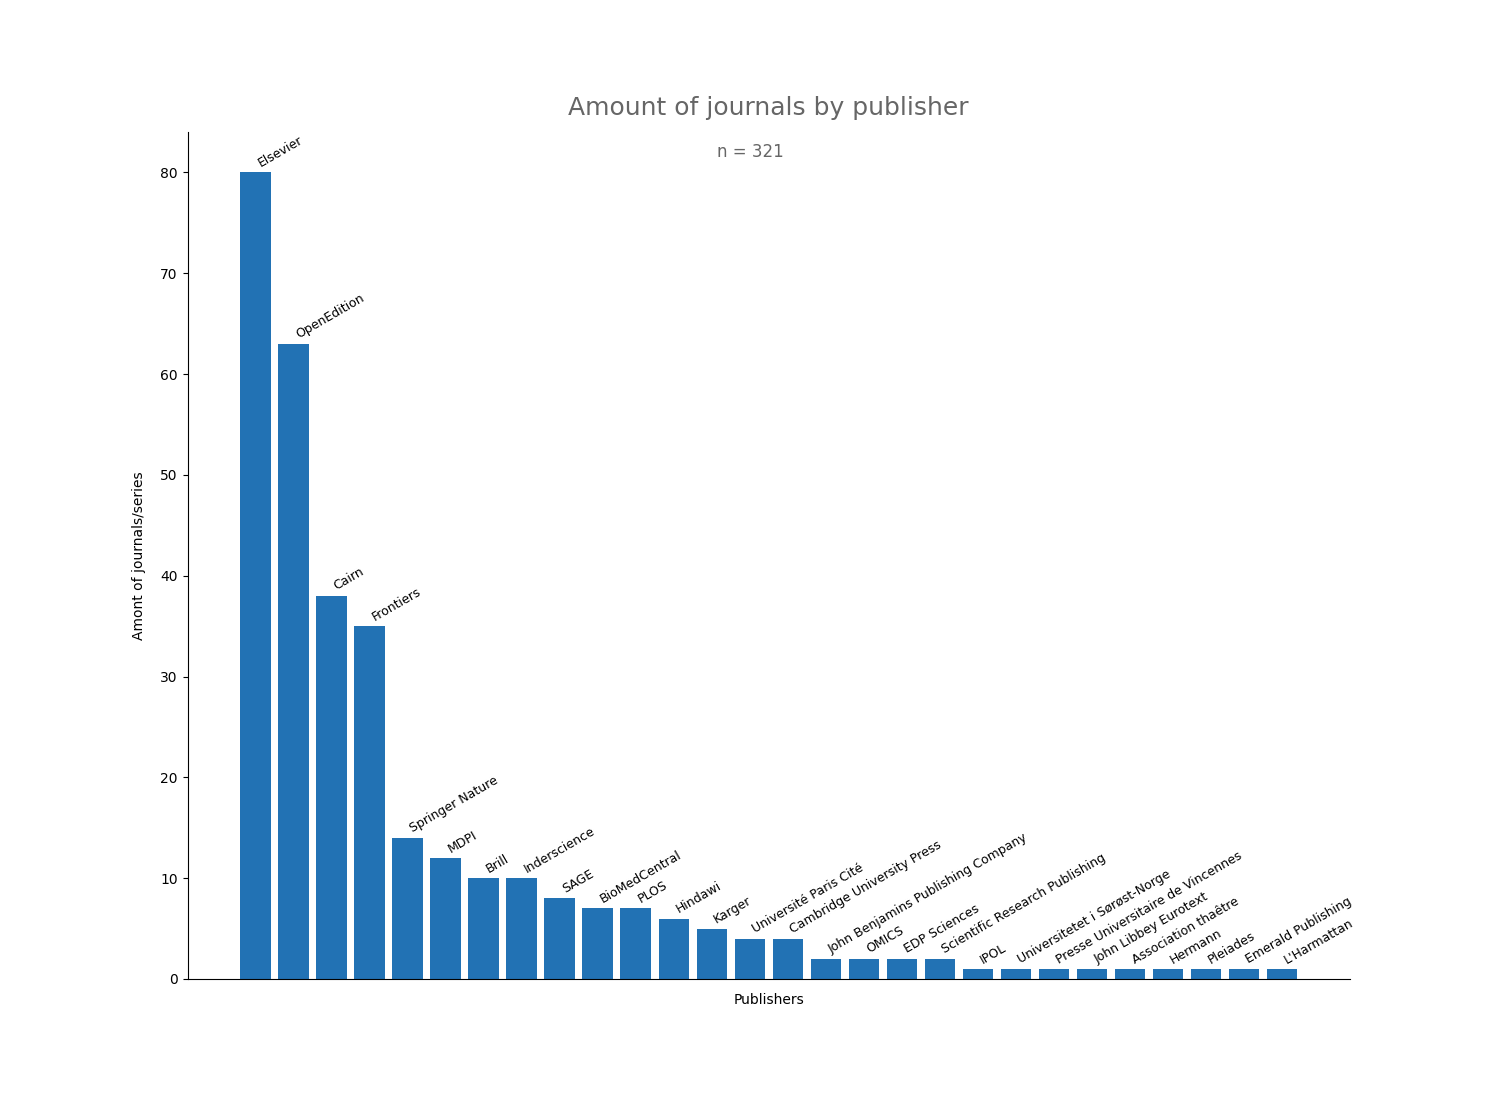
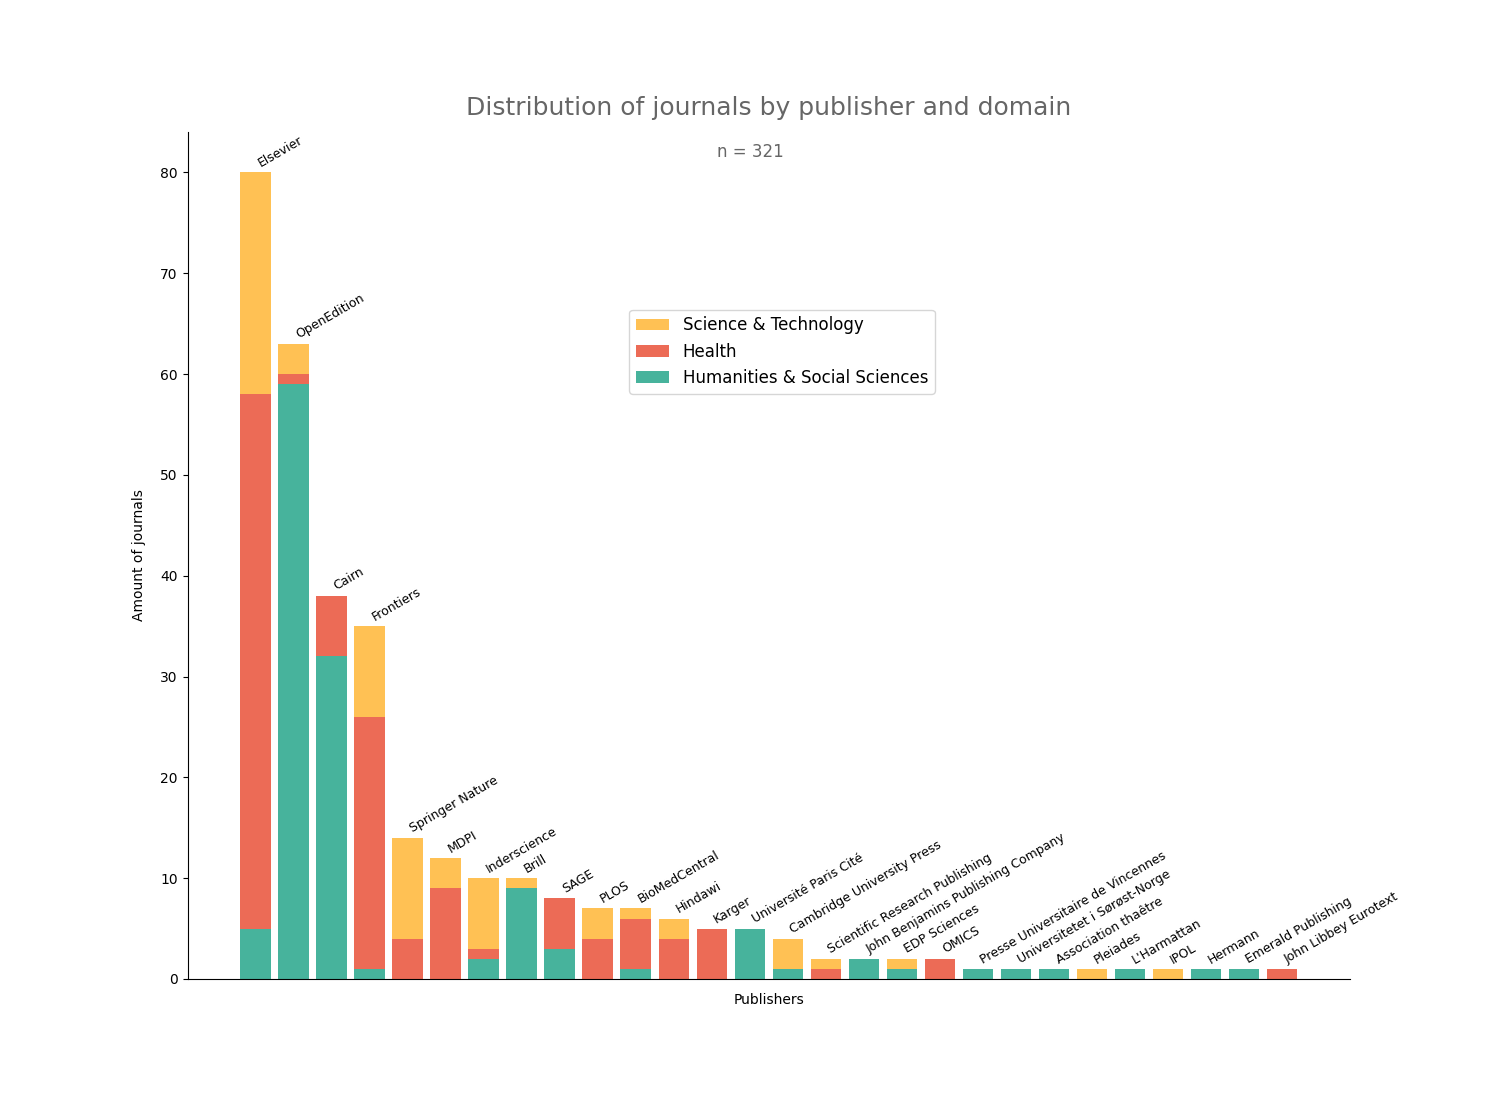
update hist publisher graph

diff --git a/produce-img/b__draw_publisher.py b/produce-img/b__draw_publisher.py
@@ -3,7 +3,7 @@ import my_functions
 
 
 df = my_functions.load_corpus()
-# print("columns", df.columns)
+print("columns", df.columns)
 
 # ______0______ preparer les données
 
@@ -16,18 +16,32 @@ df.loc[:, "pub_2"]= df["pub_2"].str.strip()
 # print(df["pub_1"].value_counts())
 # print(len(df["pub_1"].value_counts()))
 
-# calcul nb de revues par publisher
-df_publisher = df["pub_1"].value_counts().rename_axis('publishers').reset_index(name='counts')
+
+df_publisher = pd.crosstab(df["pub_1"], df["main_subject"])
+# rename the index
+df_publisher.index.rename("publisher", inplace = True)
+
+# une colonne pour avoir le total des revues par publisher
+df_publisher["sum"] = df_publisher["HSS"] + df_publisher["Health"] + df_publisher["ST"]
+
+df_publisher.sort_values("sum", ascending = False, inplace = True)
+print(df_publisher)
 
 
 ## ______0______ produire graphique
 fig, (ax) = plt.subplots(figsize=(15, 11), dpi = 100, facecolor='w', edgecolor='k')
 
-ax.bar(df_publisher.publishers, df_publisher.counts, color = "#2272b4")
+ax.bar(df_publisher.index, df_publisher.HSS, label = "Humanities & Social Sciences", color = "#47B39C")
+
+ax.bar(df_publisher.index, df_publisher.Health , align='center', alpha = 1.0, color='#EC6B56', 
+    bottom = df_publisher.HSS, ecolor='black', label="Health")
+
+ax.bar(df_publisher.index, df_publisher.ST , align='center', alpha = 1.0, color='#FFC154', 
+    bottom = [sum(x) for x in zip(df_publisher.HSS, df_publisher.Health)], ecolor='black', label="Science & Technology")
 
 
 # ajout des noms des publishers en haut des histogrammes
-for x, y in zip(df_publisher.publishers, df_publisher.counts) : 
+for x, y in zip(df_publisher.index, df_publisher["sum"]) : 
     plt.annotate(
       x, 
       (x,y),
@@ -42,7 +56,7 @@ for x, y in zip(df_publisher.publishers, df_publisher.counts) :
 # ______0______ configurer le rendu
 ax.spines['top'].set_visible(False)
 ax.spines['right'].set_visible(False)
-ax.set_ylabel("Amont of journals/series", labelpad = 10)
+ax.set_ylabel("Amount of journals", labelpad = 10)
 ax.set_xlabel("Publishers", labelpad = 10)
 
 # remove xticks
@@ -54,7 +68,16 @@ top=False,         # ticks along the top edge are off
 labelbottom=False) # labels along the bottom edge are off
 
 
+#reorder labels
+handles, labels = ax.get_legend_handles_labels()
+order = [2, 1, 0]
+plt.legend(
+    [handles[idx] for idx in order], [labels[idx] for idx in order],
+    frameon = True, markerscale = 1, fontsize = 12,  bbox_to_anchor=(0.65, 0.8) )
+
+
 ## titre
-plt.title("Amount of journals by publisher", fontsize = 18, x = 0.5, y = 1.01, alpha = 0.6)
+plt.title("Distribution of journals by publisher and domain", fontsize = 18, x = 0.5, y = 1.01, alpha = 0.6)
 plt.suptitle("n = " + str(len(df)), x = 0.5, y = 0.87,  alpha = 0.6)
 plt.savefig("hist-journals-by-publisher.png")
+# plt.show()

diff --git a/produce-img/a__distribute_journals_and_activities_by_domain.py b/produce-img/a__distribute_journals_and_activities_by_domain.py
@@ -12,36 +12,36 @@ print( df["Autres liens\navec UPC"].value_counts())
 
 ## ________1___________ graph pie nb journals by domain
 
-# # répartir les revues par domaines, renommer la colonne de sortie "amount"
-# df_pie = df["main_subject"].value_counts().to_frame('amount')
-# print(df_pie)
+# répartir les revues par domaines, renommer la colonne de sortie "amount"
+df_pie = df["main_subject"].value_counts().to_frame('amount')
+print(df_pie)
 
-# def pct_n_val(x):
-#     """
-#     affiche les pourcentages correspondant pour le graphique pie
-#     """
-#     return '{:.0f}%\n({:.0f})'.format(x, df_pie.amount.sum() * x / 100)
+def pct_n_val(x):
+    """
+    affiche les pourcentages correspondant pour le graphique pie
+    """
+    return '{:.0f}%\n({:.0f})'.format(x, df_pie.amount.sum() * x / 100)
 
-# fig1, ax1 = plt.subplots(figsize=(10, 7)) 
-# _, _, autopcts = ax1.pie(
-#     df_pie.amount,
-#     labels = df_pie.index,
-#     explode = (0.02, 0.02, 0.02), 
-#     autopct = pct_n_val,
-#     shadow = False,
-#     startangle=40, 
-#     colors = ['#47B39C', '#EC6B56', '#FFC154'],
-#     textprops={'fontsize': 14},
-#     labeldistance = 1.2
-#     )
+fig1, ax1 = plt.subplots(figsize=(10, 7)) 
+_, _, autopcts = ax1.pie(
+    df_pie.amount,
+    labels = df_pie.index,
+    explode = (0.02, 0.02, 0.02), 
+    autopct = pct_n_val,
+    shadow = False,
+    startangle=40, 
+    colors = ['#47B39C', '#EC6B56', '#FFC154'],
+    textprops={'fontsize': 14},
+    labeldistance = 1.2
+    )
 
-# ## redefinition des autopct afin de modifier indépendamment leur font et celle des labels
-# plt.setp(autopcts, **{'color':'black', 'fontsize':10})
+## redefinition des autopct afin de modifier indépendamment leur font et celle des labels
+plt.setp(autopcts, **{'color':'black', 'fontsize':10})
 
 
-# plt.title('Amount of journals by domain', fontsize = 20, x = 0.5, y = 1.08, alpha = 0.6)
-# plt.suptitle("n = " + str(df_pie.amount.sum()), x = 0.5, y = 0.94,  alpha = 0.6)
-# plt.savefig("pie-journals-by-domain.png")
+plt.title('Amount of journals by domain', fontsize = 20, x = 0.5, y = 1.08, alpha = 0.6)
+plt.suptitle("n = " + str(df_pie.amount.sum()), x = 0.5, y = 0.94,  alpha = 0.6)
+plt.savefig("pie-journals-by-domain.png")
 
 
 

diff --git a/z-read-data.py b/z-read-data.py
@@ -1,13 +1,9 @@
 import pandas as pd
-import my_functions
 
 df_raw = pd.read_csv("2023-05-upcite-editorial-activities-data.csv")
 
-# for col in df_raw.columns : 
-#     print(col, '\n')
-
-
-df_raw["reviewer_only"] = df_raw.apply(lambda row : my_functions.deduce_reviewer_only(row), axis = 1)
+# print(df_raw.columns)
+print(" nb of journals", "")
 
 # selection des revues : en activité et où le reviewing n'est pas la seule activités éditoriales
 mask = (df_raw["si inactif\ndate\ndernier \nnum"].isna()) & (~df_raw["reviewer_only"]) 
